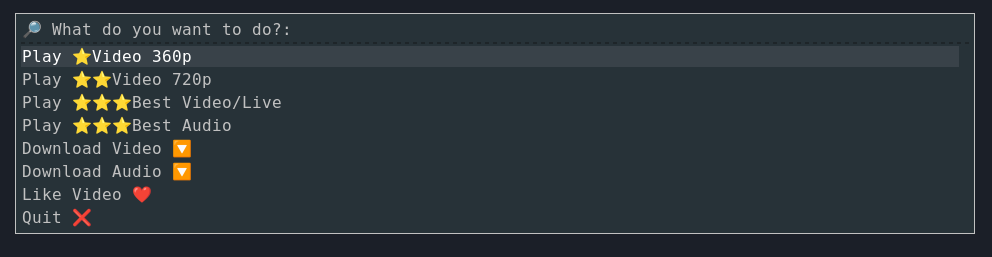
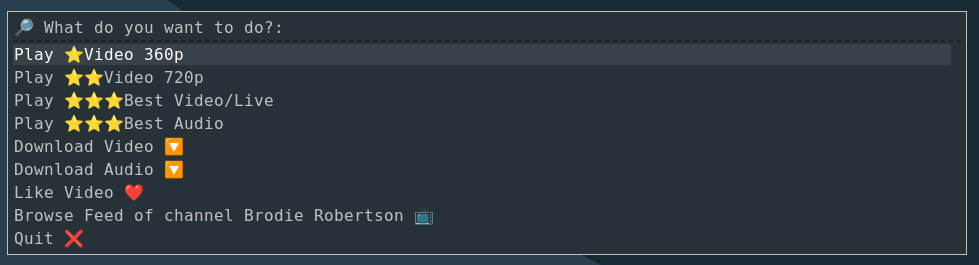
update md select_action.png

Changed region(s): [[0.0, 0.0, 1.0, 1.0]]

diff --git a/README.md b/README.md
@@ -50,6 +50,7 @@ Regarding image support, it can either be achived with
 
 * [kitty terminal](https://sw.kovidgoyal.net/kitty/)
 
+
     $ sudo apt install kitty
 
 
@@ -63,6 +64,7 @@ or with
 
 
 * [chafa](https://github.com/hpjansson/chafa)
+
 
     $ sudo apt install chafa
 
@@ -174,6 +176,7 @@ Once a video is selected, the user is prompted to __select action__:
 * Play ⭐⭐⭐Best Audio
 * Download Video 🔽
 * Like Video ❤
+* Browse Feed of channel that uploaded the video  📺
 * Quit ❌
 
 ![image7](screenshots/rofi_select_action.png)
